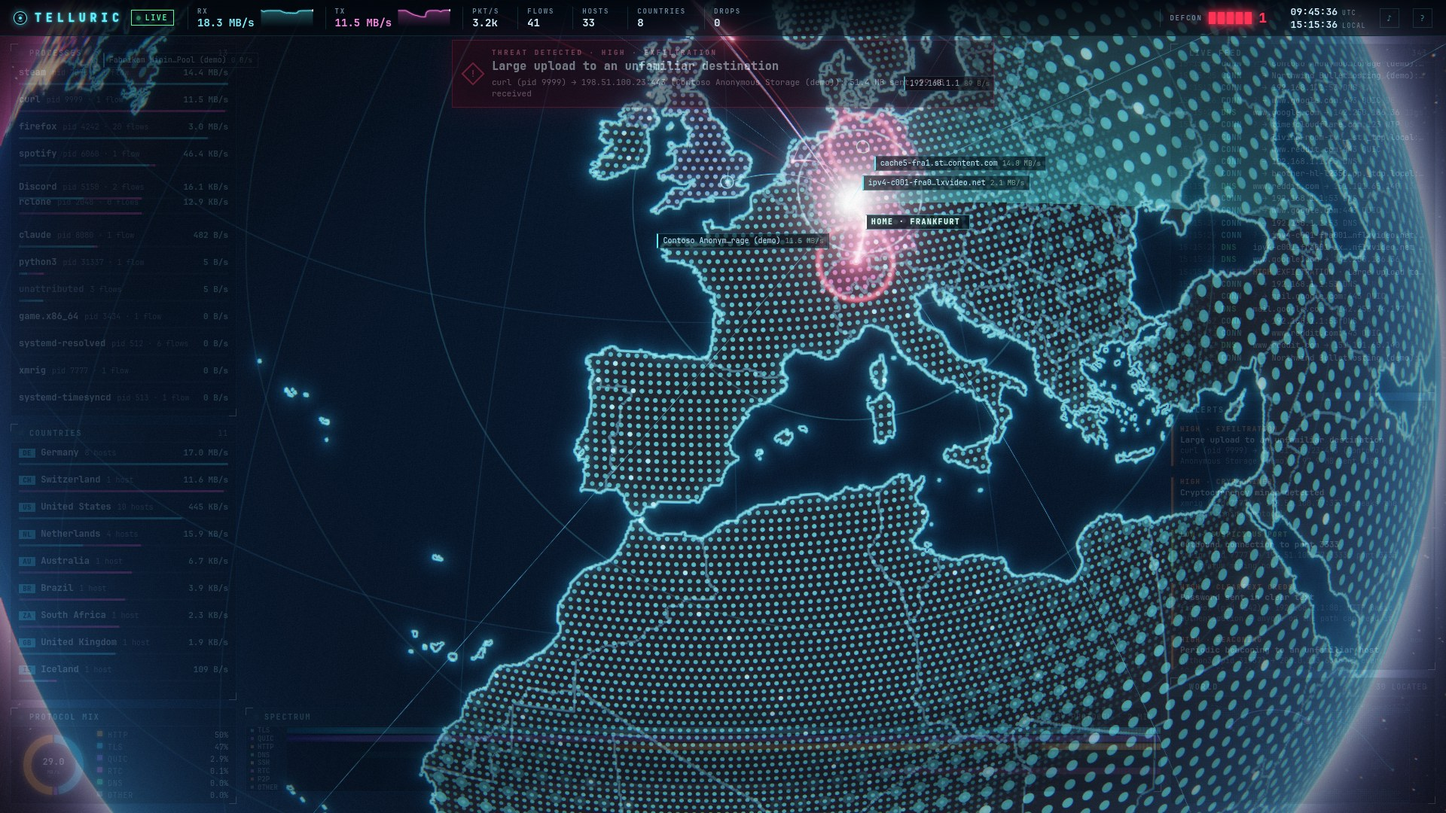
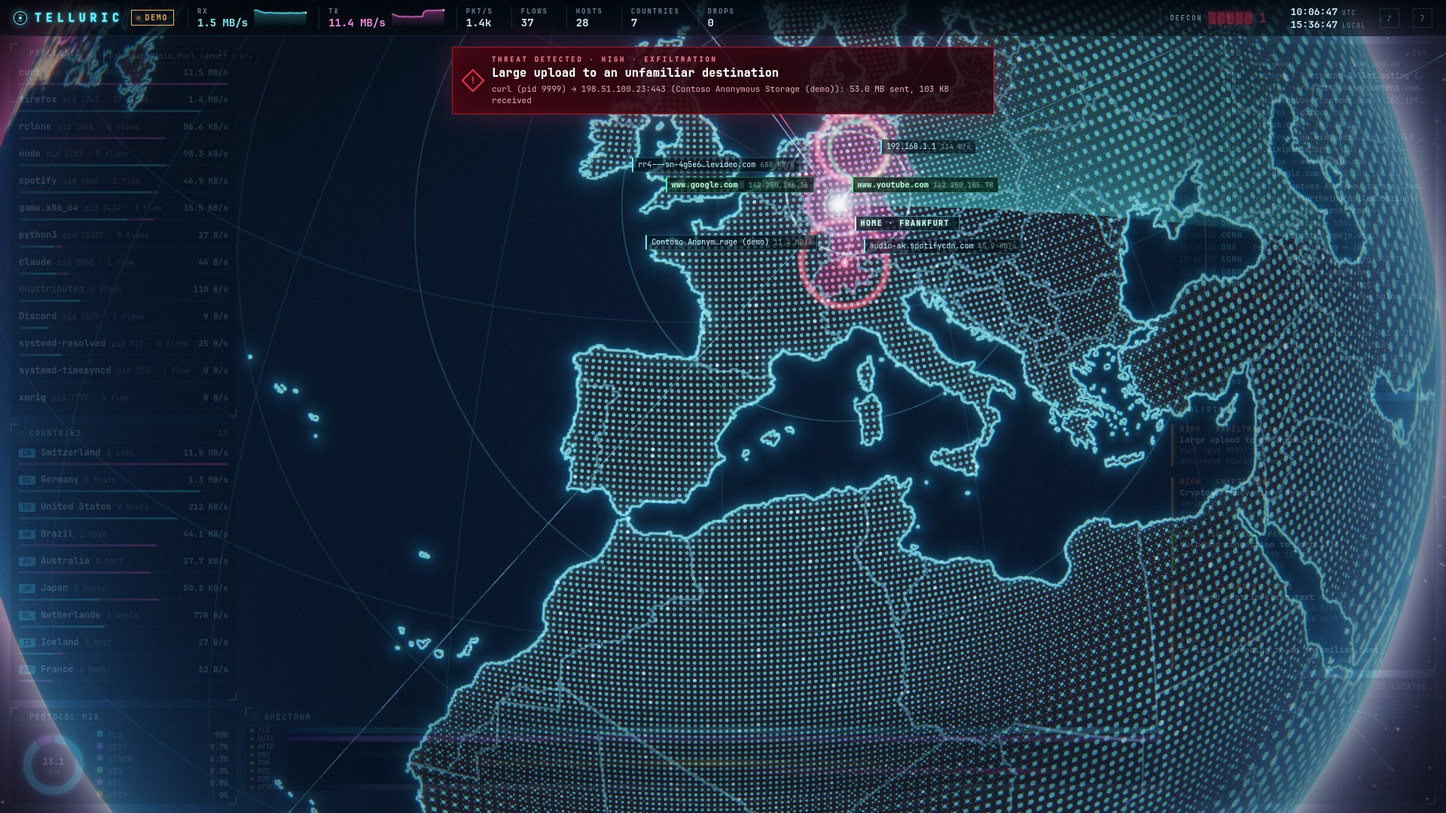
README: final hero and gallery — traceroute + DGA, alert theatre

diff --git a/README.md b/README.md
@@ -15,7 +15,7 @@
 ![deps](https://img.shields.io/badge/dependencies-x%2Fsys%20only-success)
 ![license](https://img.shields.io/badge/license-MIT-blue)
 
-![Telluric: a DGA attack in progress — generated domains failing to resolve over the globe, DEFCON 2](docs/media/hero.jpg)
+![Telluric: an mtr traceroute drawn hop by hop from Frankfurt to San Francisco while malware's generated domains fail to resolve — DEFCON 2](docs/media/hero.jpg)
 
 </div>
 
@@ -30,9 +30,9 @@ something is wrong, the globe turns red.
 *Telluric currents are the electric currents that flow through the Earth.
 These are yours.*
 
-| The alert theatre: an exfiltration in progress | DEFCON 1, with real night-side city lights |
+| The alert theatre: an exfiltration, caught and named | `mtr` across the Atlantic, reconstructed from the wire |
 |---|---|
-| ![Alert theatre](docs/media/alert-theatre.jpg) | ![DEFCON 1](docs/media/defcon-1.jpg) |
+| ![Alert theatre](docs/media/alert-theatre.jpg) | ![Traceroute](docs/media/traceroute.jpg) |
 
 *Every frame above is the real engine running `--demo`: synthetic packets
 go through the same decoders and detectors as live traffic.*
